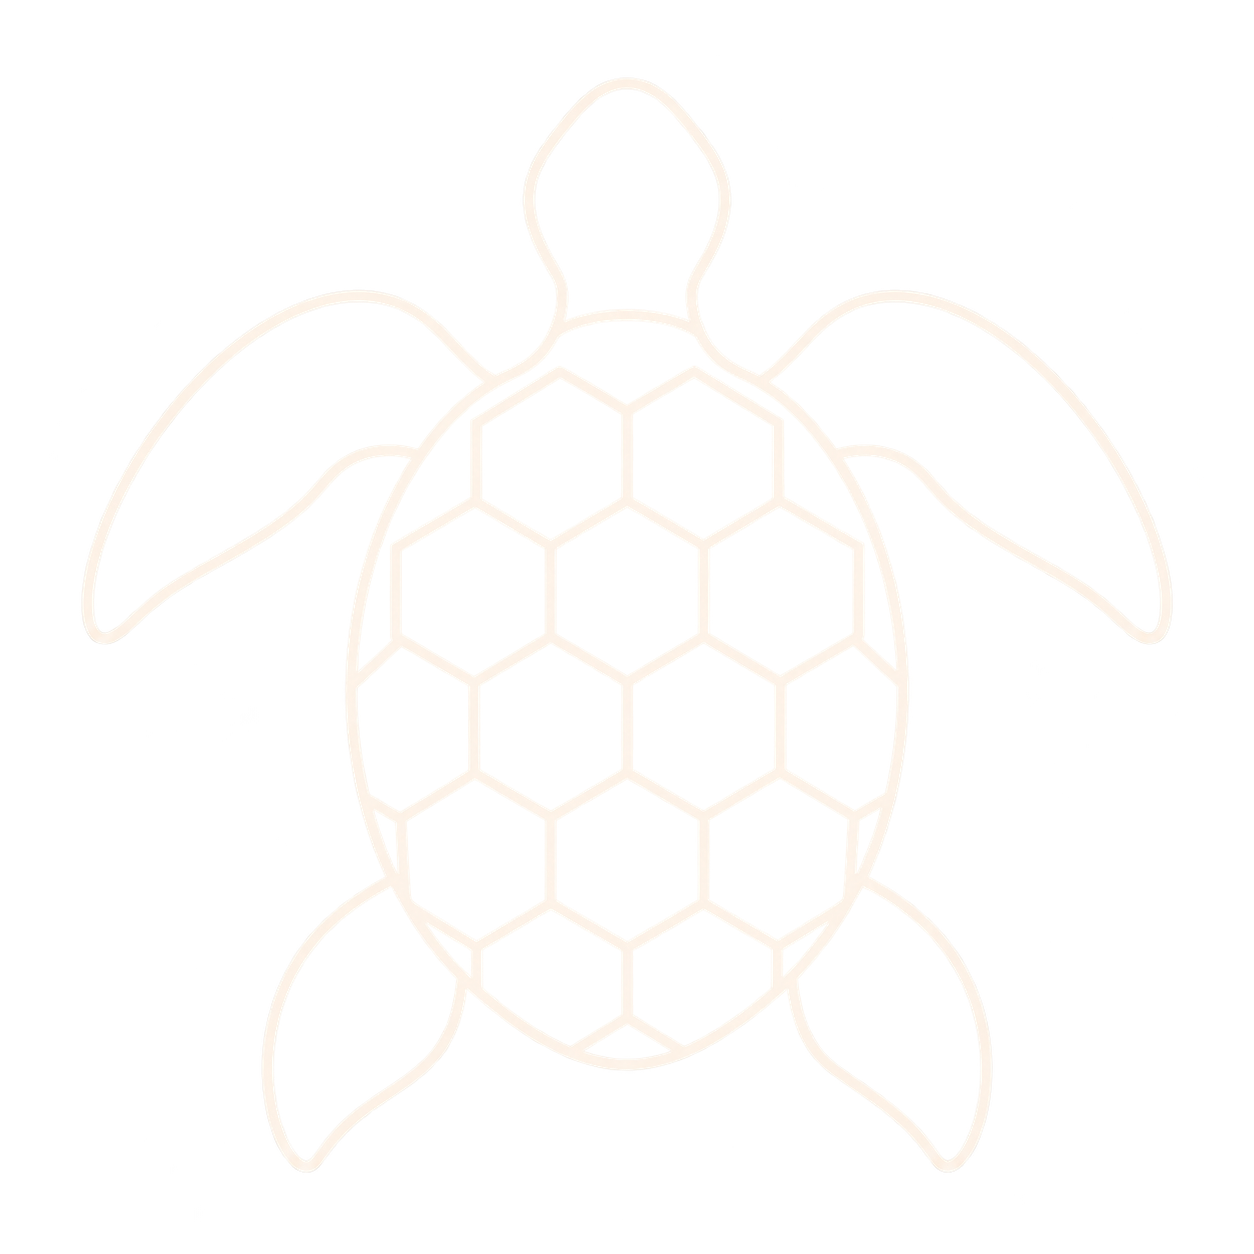
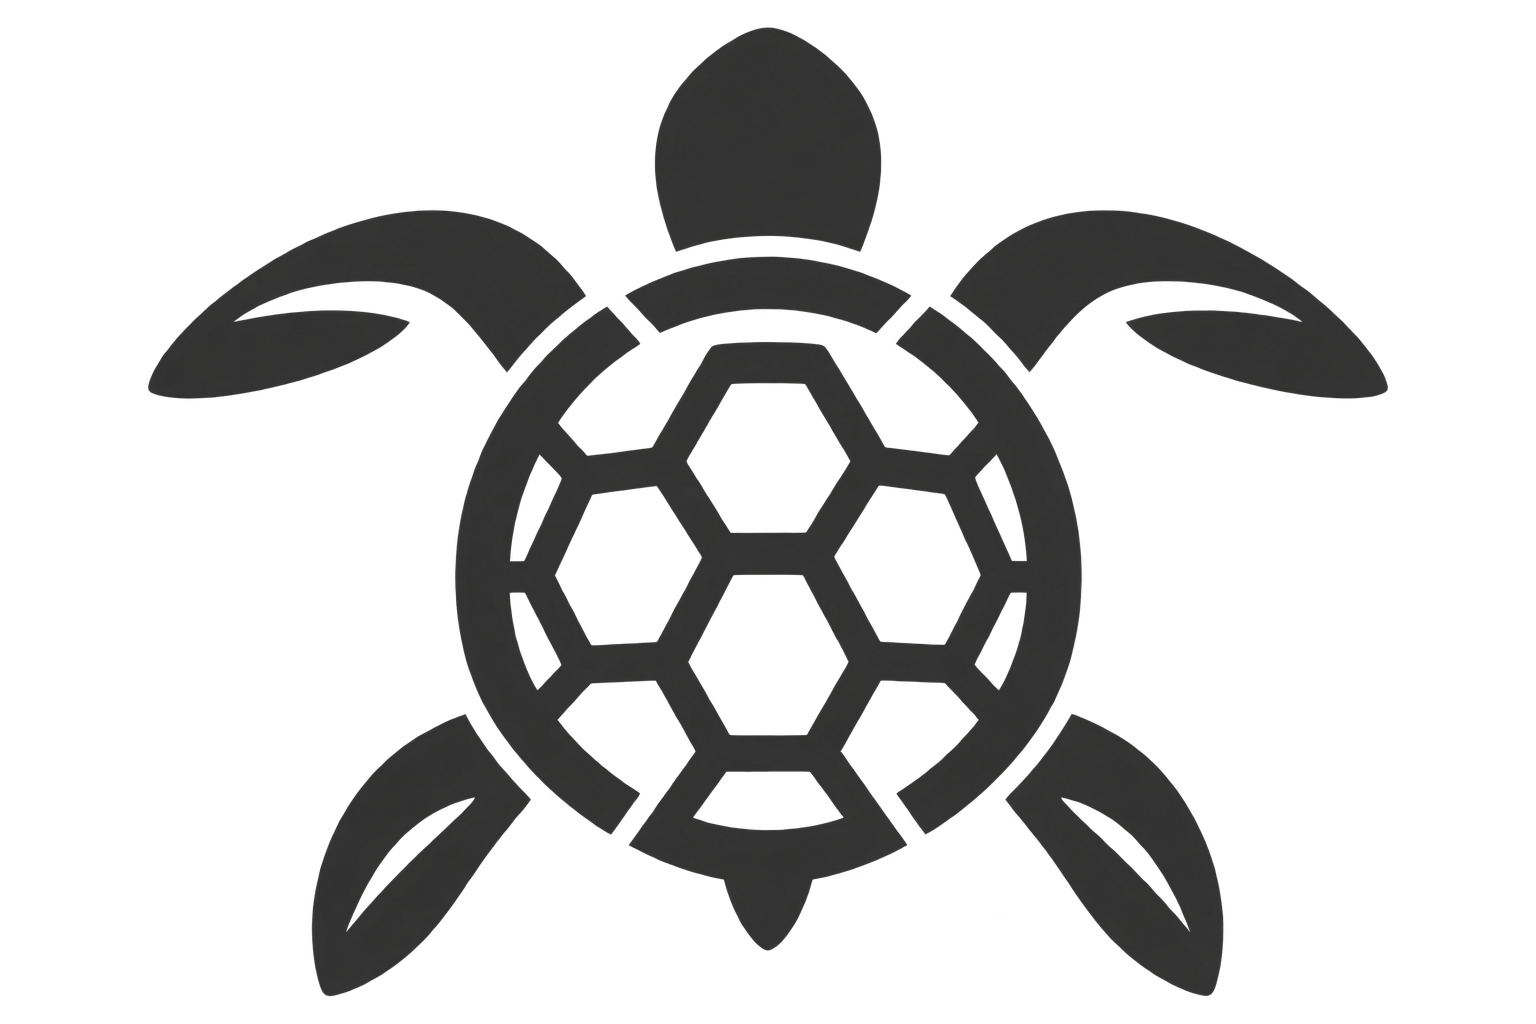
Use geometric turtle footer watermark

Changed region(s): [[0.0933, 0.0312, 0.9019, 0.9688]]

diff --git a/src/components/Footer.tsx b/src/components/Footer.tsx
@@ -44,7 +44,7 @@ export function Footer() {
         aria-hidden="true"
         src="/brand/footer-turtle-watermark.png"
         alt=""
-        className="pointer-events-none absolute -bottom-56 -left-44 hidden h-[42rem] w-auto select-none opacity-[0.07] md:block"
+        className="pointer-events-none absolute -bottom-56 -left-44 hidden h-[42rem] w-auto select-none md:block"
       />
 
       <div className="relative z-10 mx-auto grid max-w-app gap-x-8 gap-y-10 px-6 py-20 md:grid-cols-5 md:py-24">
